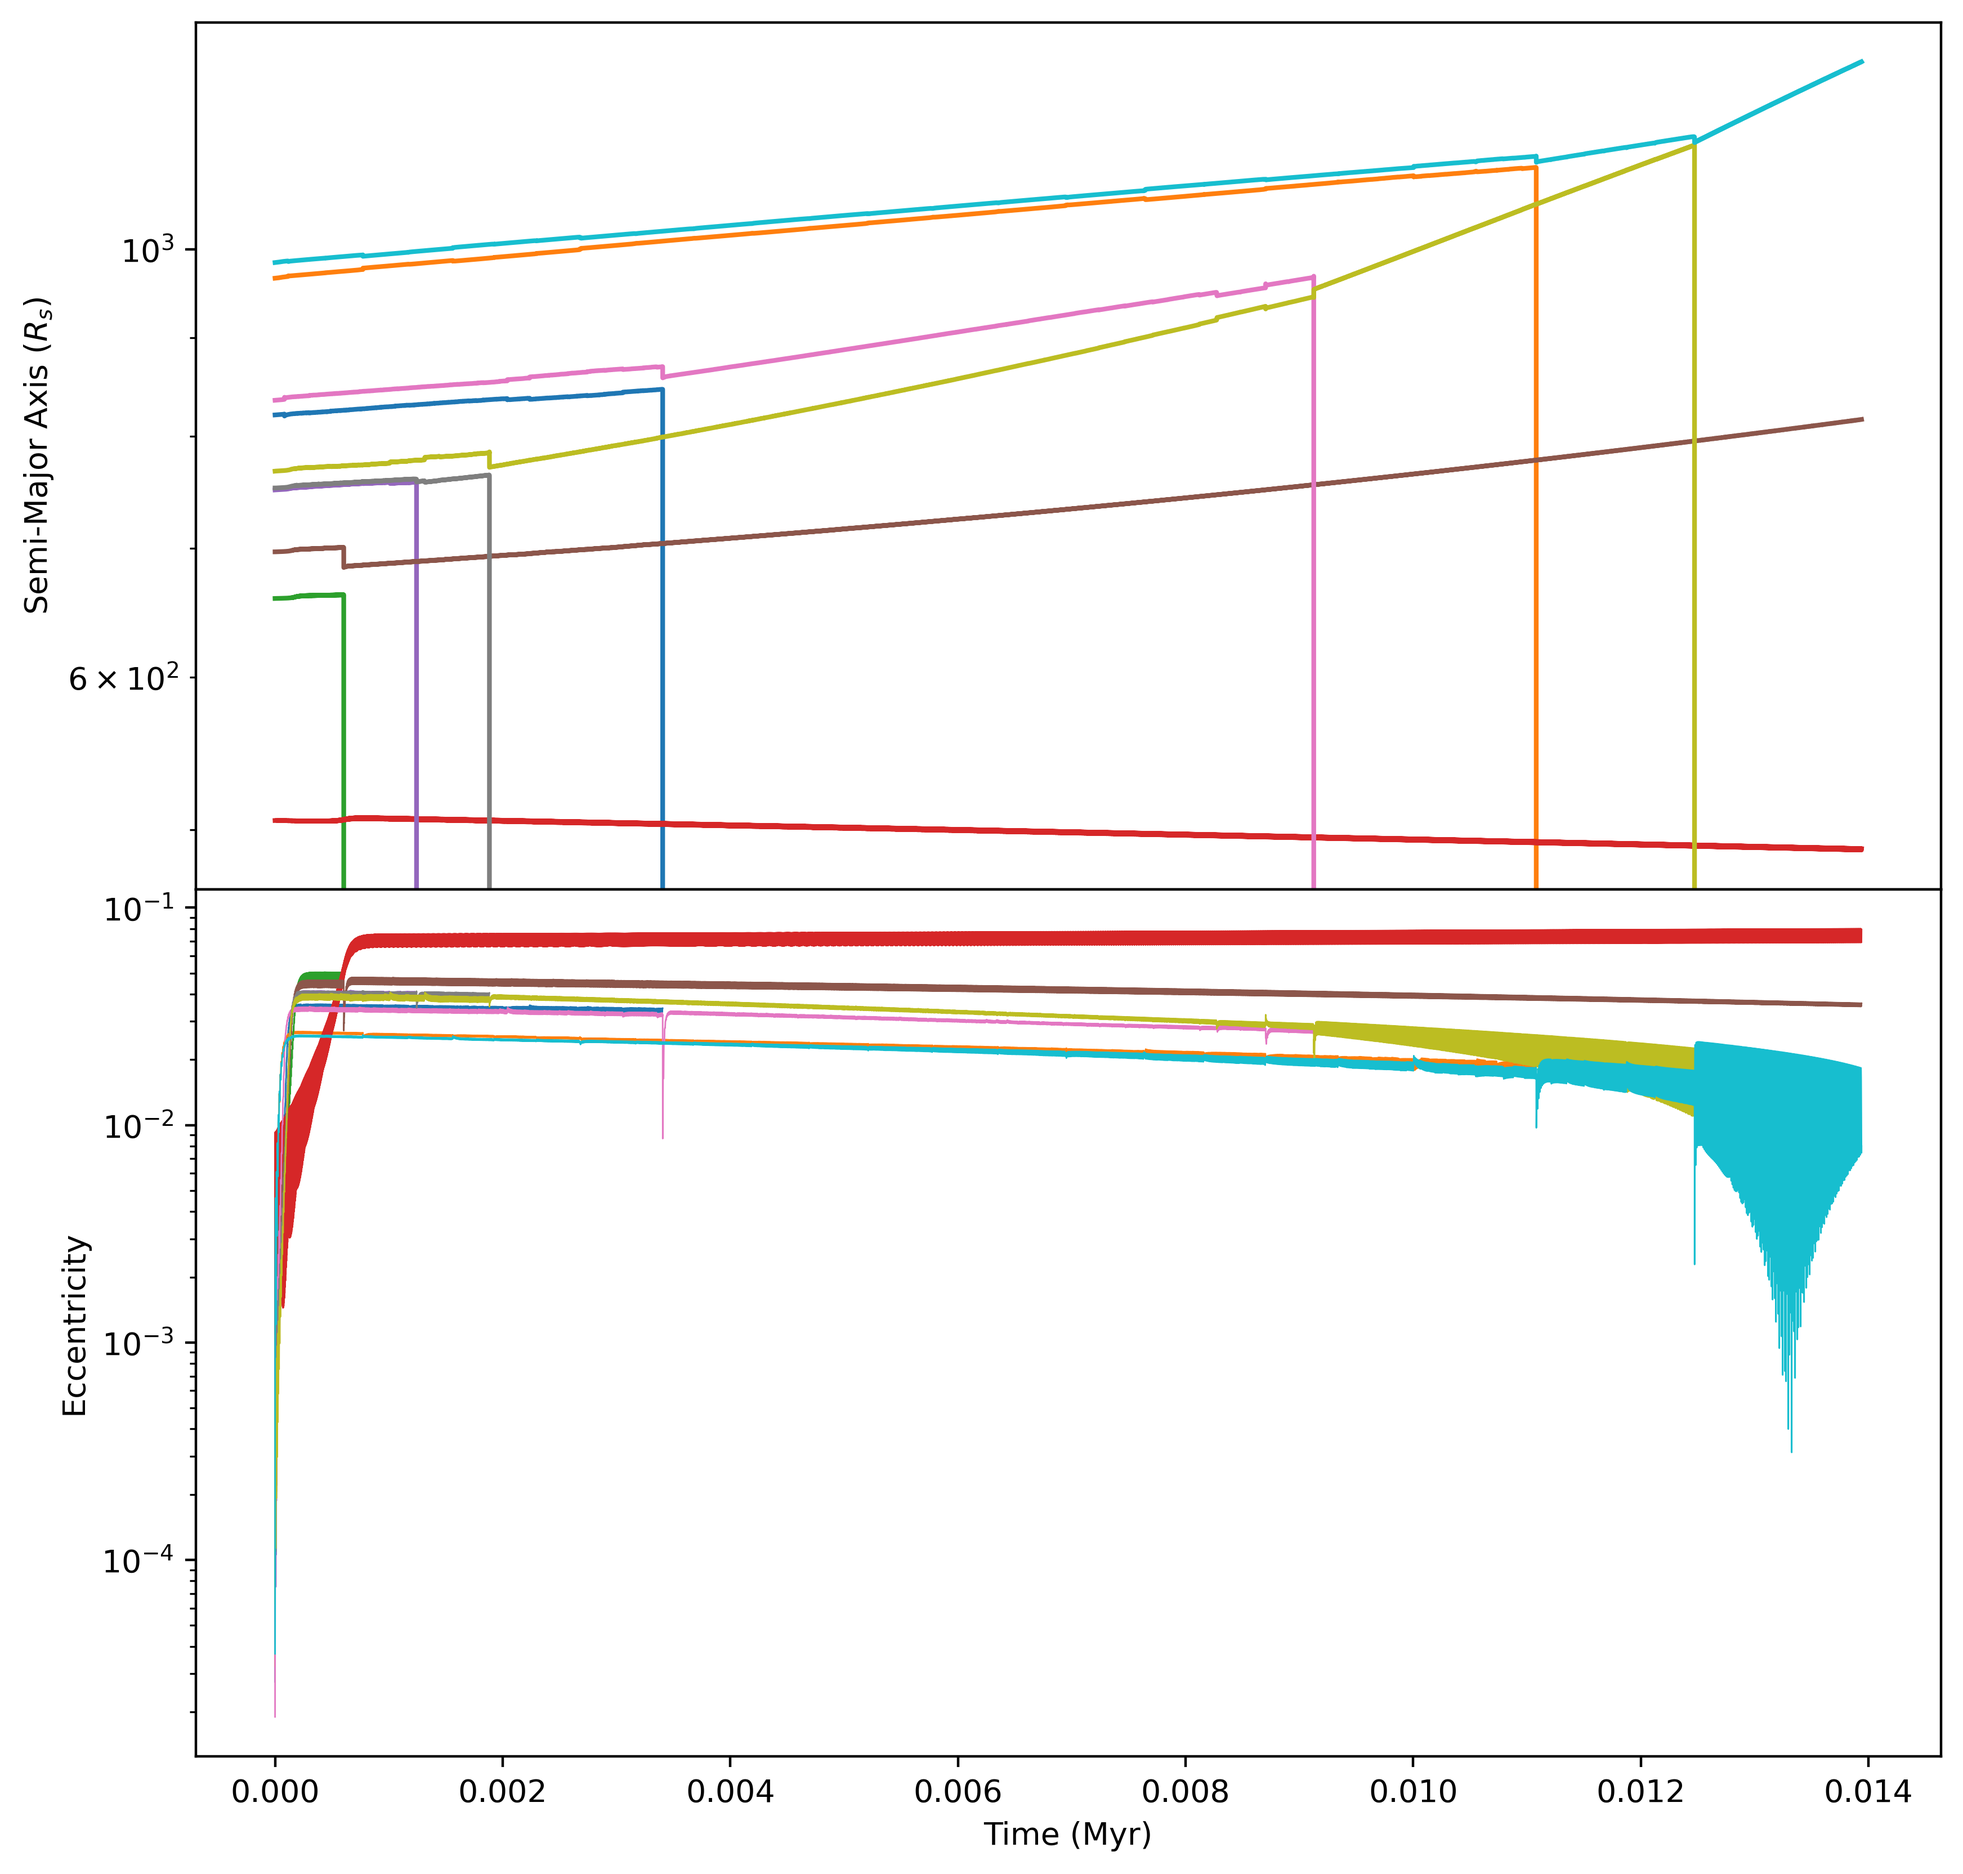
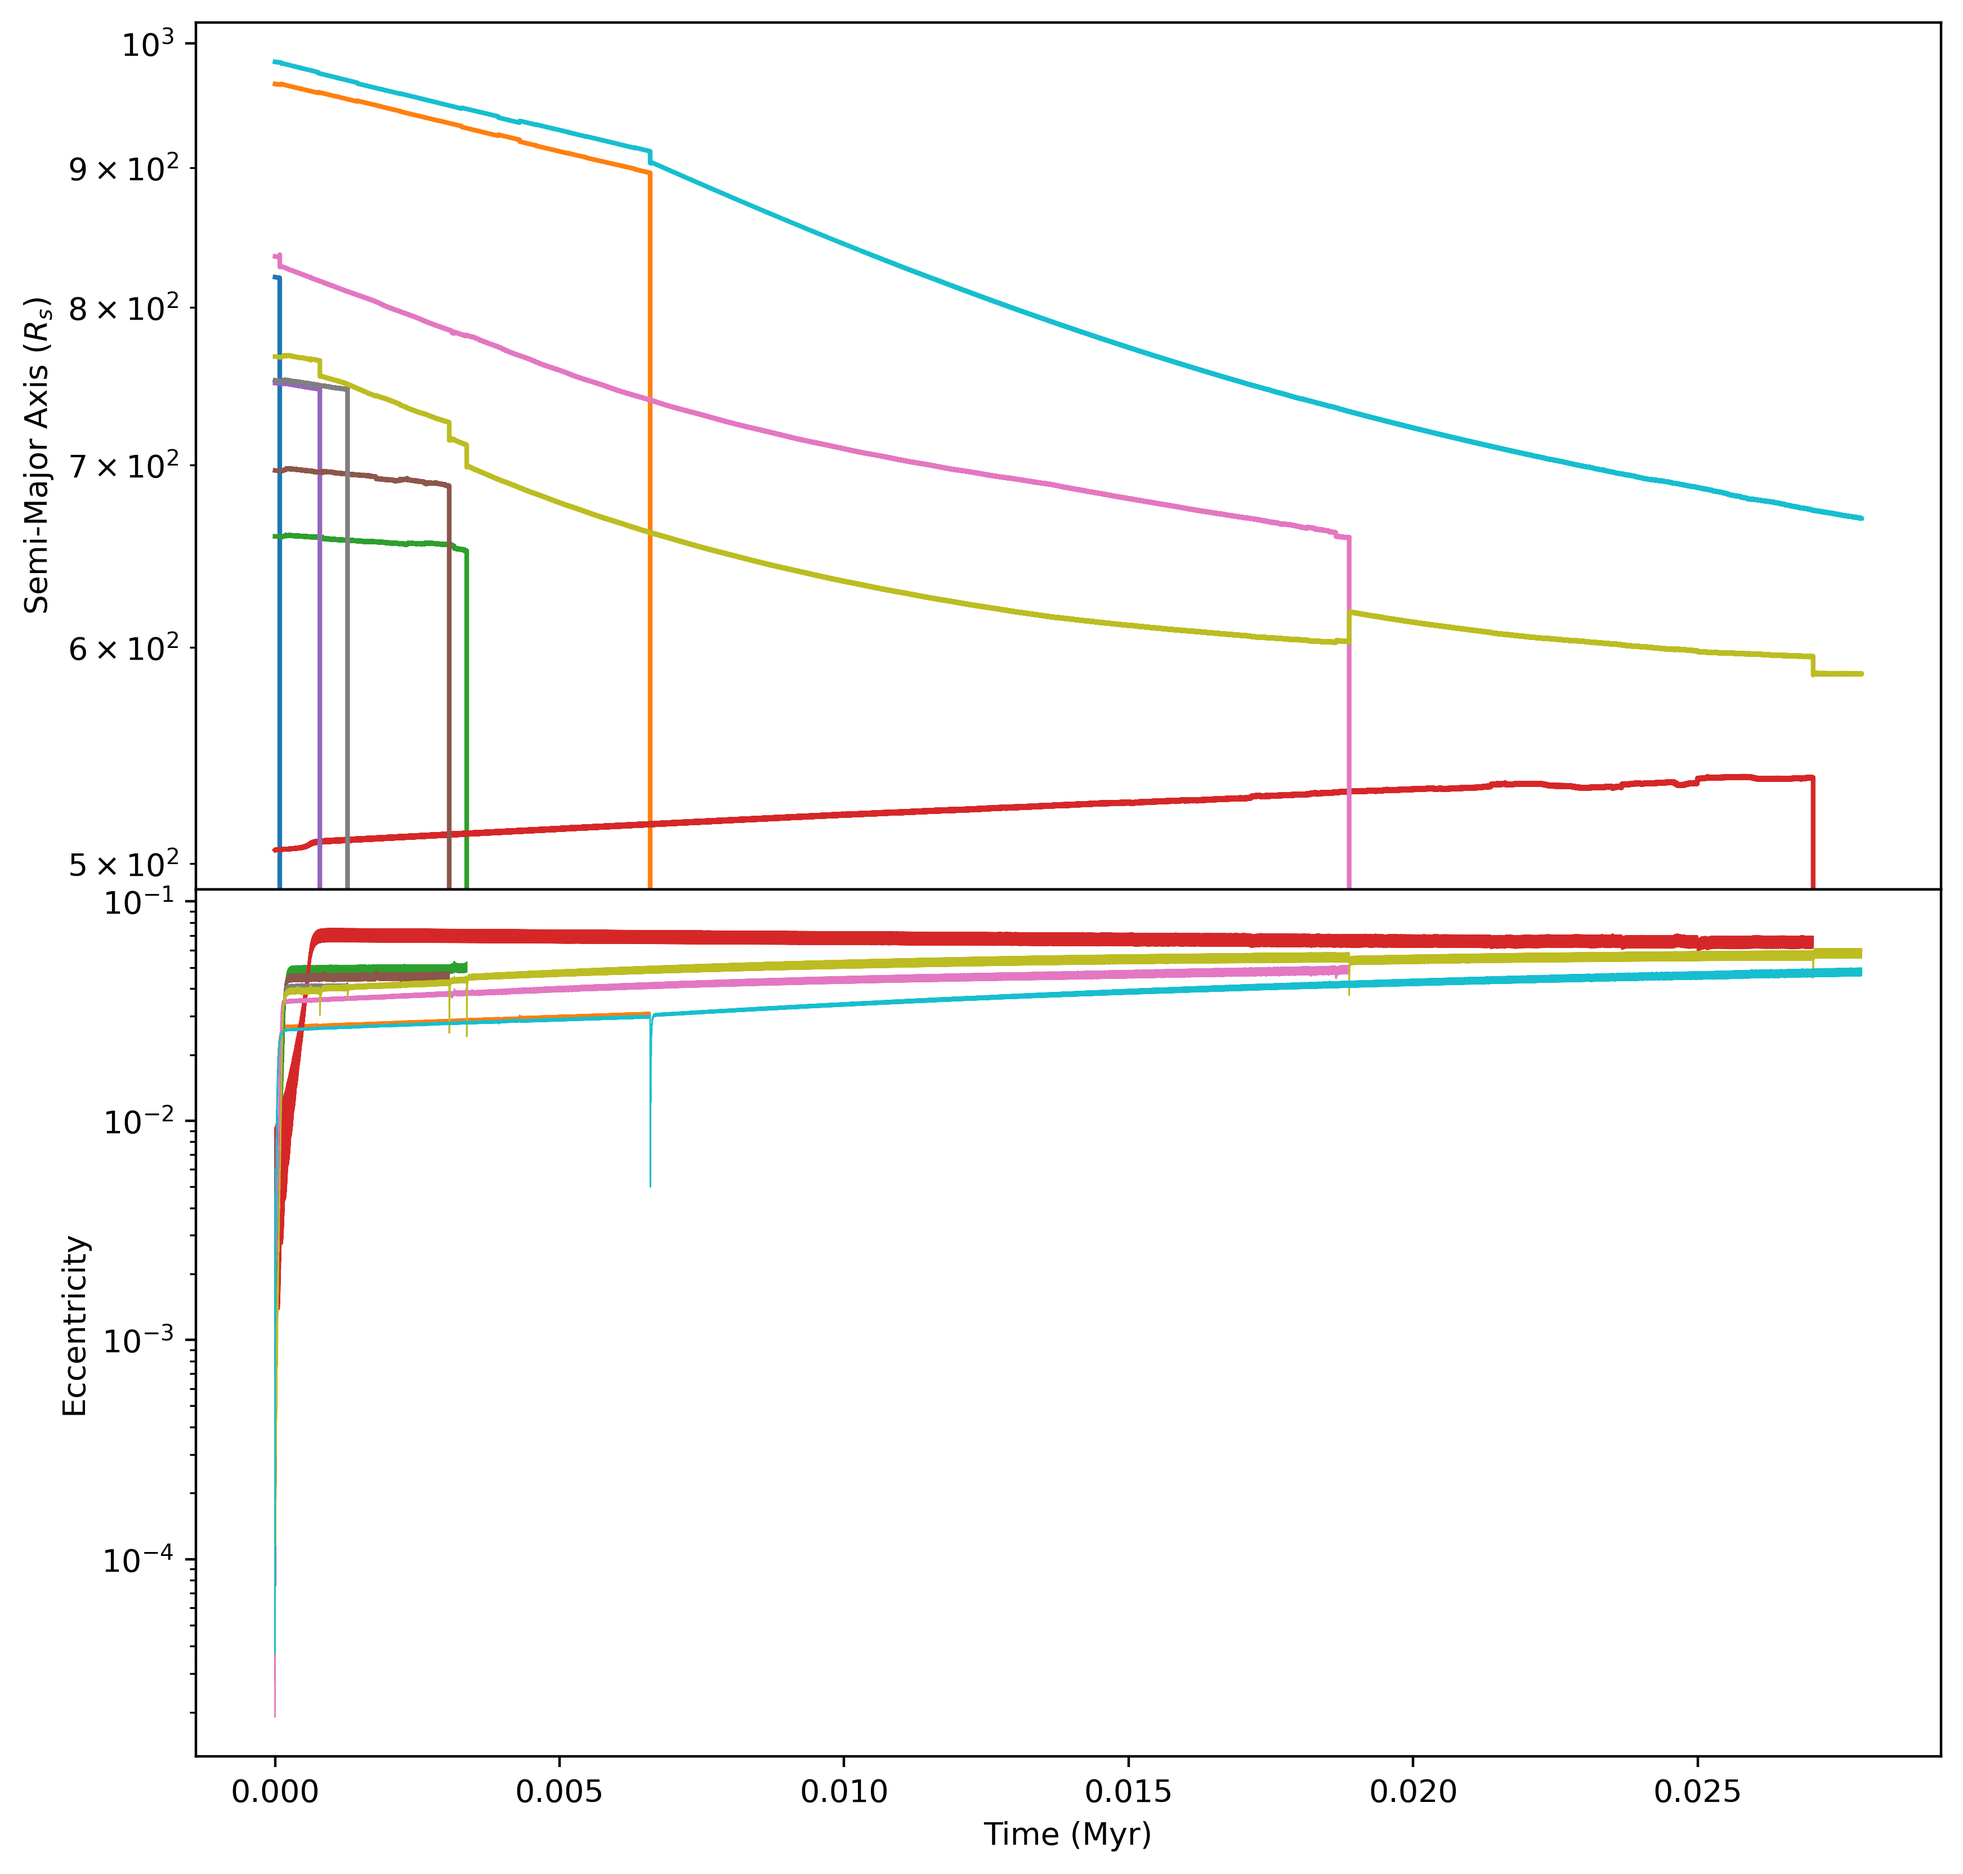
Change torque direction

diff --git a/N-Body_Code/CommonTools.py b/N-Body_Code/CommonTools.py
@@ -71,7 +71,7 @@ class AGNDisk(object):
         x, y, z = position
         radius = np.linalg.norm(position)
         # radial_vec2 = np.array([x, y, z]) / radius
-        theta_vec = np.array([-y, x, 0]) / radius
+        theta_vec = - np.array([-y, x, 0]) / radius
         # theta = np.arctan2(y, x) + np.pi
         # phi = np.sign(y) * np.arccos(x / np.sqrt(x**2 + y**2))
         # radial_vec = np.array([np.sin(phi) * np.cos(theta), np.sin(phi) * np.sin(theta), np.cos(phi)])

diff --git a/N-Body_Code/nbodytest.py b/N-Body_Code/nbodytest.py
@@ -14,7 +14,7 @@ import time
 from CommonTools import *
 
 
-Tmax = 10000
+Tmax = 20000
 dt = 0.05
 nt = int((Tmax - 0) / dt) + 1
 NsBH = 10
